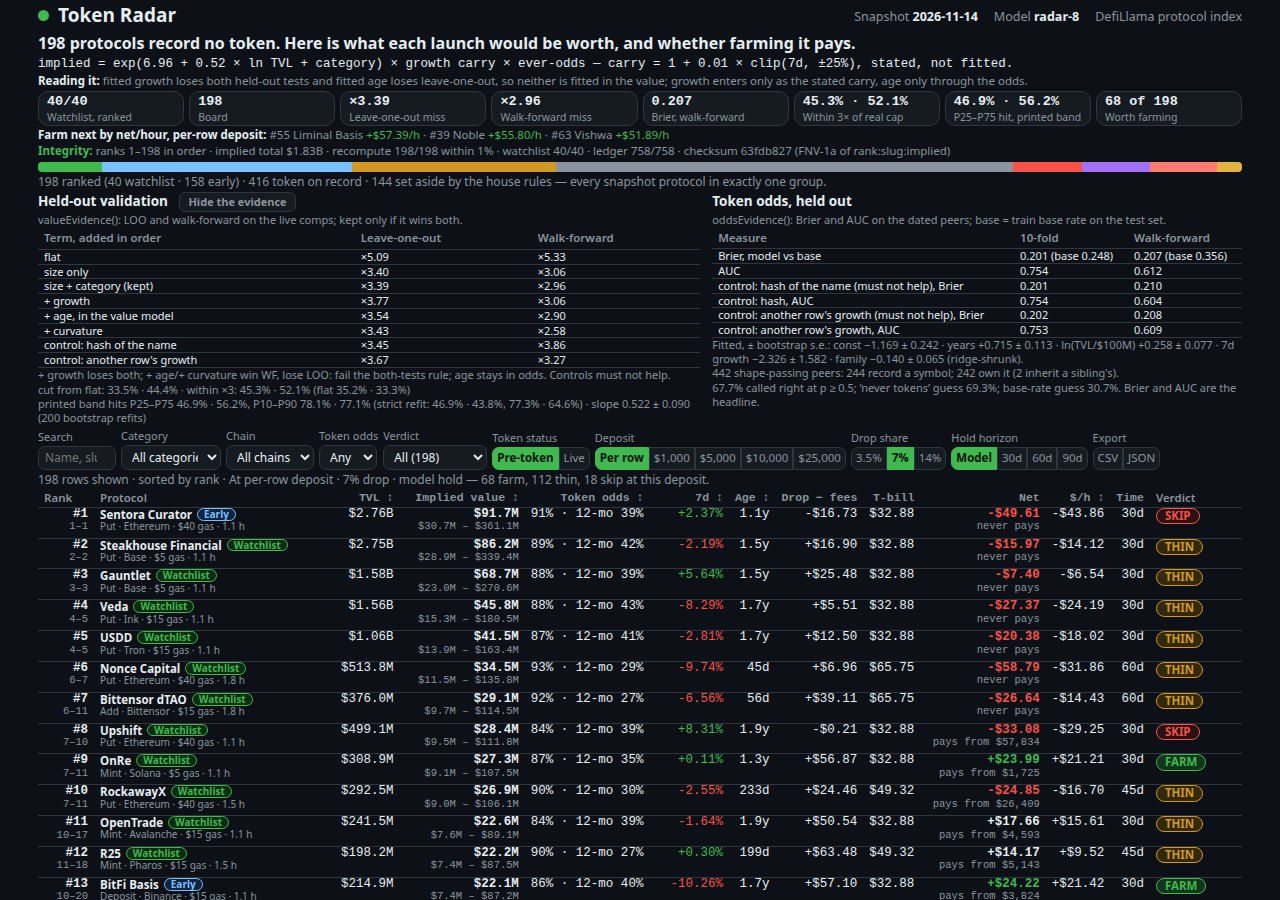
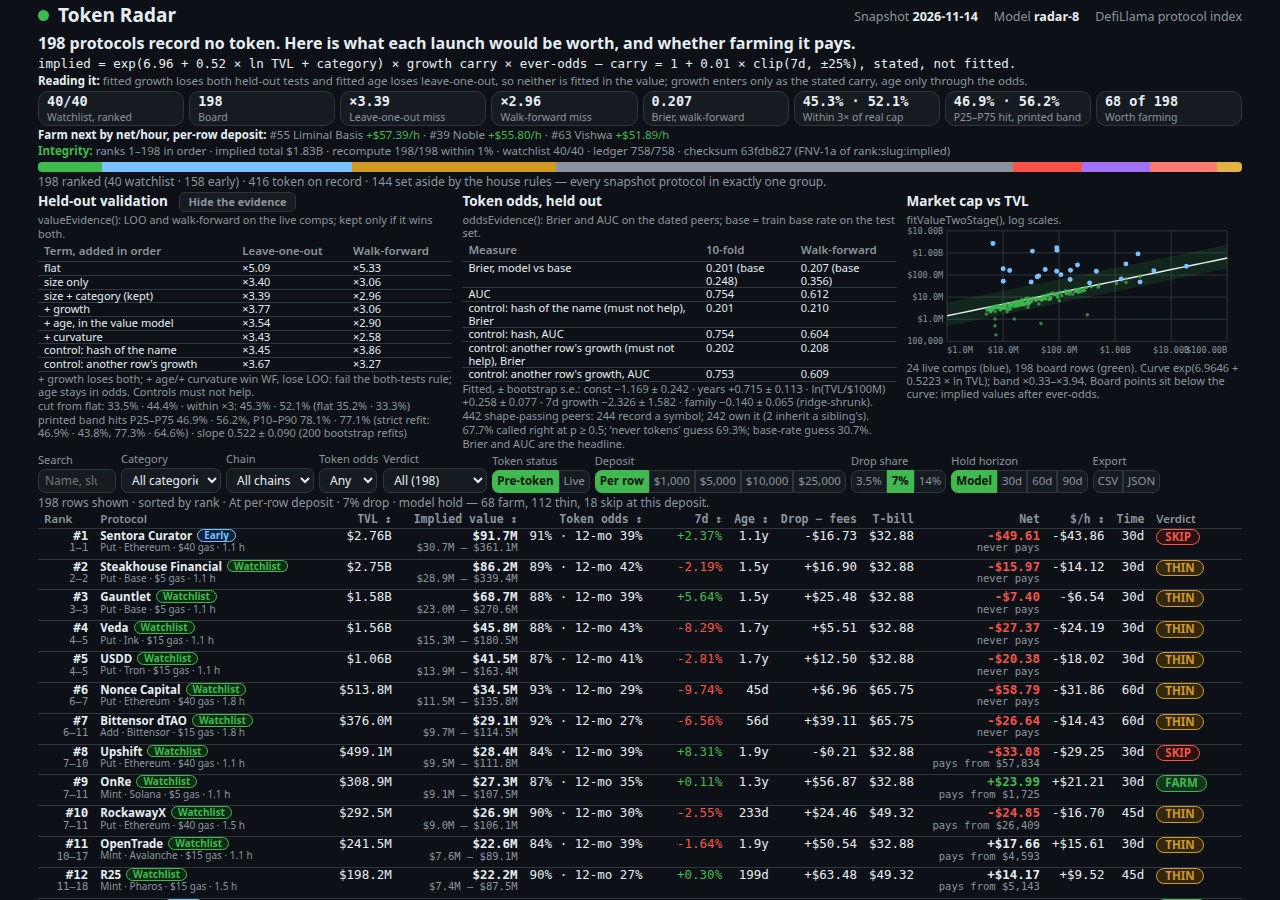
token-radar v8 (radar-9): restore judge-note literals, cover scatter, detail evidence
F1: judge-note and headline numbers are literal text again (40/40/158,
checksum 63fdb827, x3.39/x2.96, Brier 0.207/0.356, 5.07y, 198), with the
D8 build assertion extended so a drifting literal fails the build.
F2: market-cap-vs-TVL scatter on the cover, drawn live from data.js
(24 live comps, 198 board rows, fitted curve, P25-P75 band, log scales);
12 full board rows and both held-out tables stay visible.
F3: detail view gains the ever-odds build strip, nearest priced peers,
and the drop x deposit matrix; the record table is cut to make room.
No model, verdict-rule, deposit, cap, gas, or threshold change.

Changed region(s): [[0.0312, 0.2178, 0.9688, 1.0], [0.0312, 0.0622, 0.8438, 0.1244], [0.875, 0.0933, 0.9062, 0.1244]]

diff --git a/dashboard/app.js b/dashboard/app.js
@@ -1,8 +1,6 @@
-// Token Radar dashboard, model radar-8. Reads window.RADAR (data.js, written beside dashboard/)
-// and renders the ranked pre-token board, the live-token comparison set, the protocol ledger,
-// the out-of-sample evidence and the fitted model. What-if controls above the board re-price
-// every row live; filtering to a verdict re-sorts by net/hour. No network: every byte shown
-// comes from data.js, and every number on the page traces to a field of it.
+// Token Radar dashboard, model radar-8. Reads window.RADAR (data.js) and
+// renders the board, detail view, filters and evidence. No network: every
+// number on the page traces to a field of data.js.
 (function () {
   'use strict';
   var DATA = window.RADAR;
@@ -61,10 +59,8 @@
     return '$' + S.deposit.toLocaleString('en-US');
   }
 
-  // Same arithmetic as the model: depositFor sizes the deposit, slice =
-  // implied x share x deposit/TVL, forgone yield = deposit x 4% x
-  // hold/365, drop minus fees = slice - gas, net = slice - gas - yield.
-  // At the defaults this reproduces the row's own verdict and net.
+  // depositFor/verdictFor arithmetic, as in lib/model.ts. At the defaults
+  // it reproduces the row's stored verdict and net.
   function price(r) {
     var deposit = S.deposit === 'row' ? r.deposit_usd : S.deposit;
     var hold = S.horizon === 'model' ? (typeof r.hold_days === 'number' ? r.hold_days : 30) : S.horizon;
@@ -105,7 +101,7 @@
   function setText(id, t) { var n = document.getElementById(id); if (n) n.textContent = t; }
   function miss(x) { return hasNum(x) ? '×' + x.toFixed(2) : '—'; }
 
-  // ---- header, KPIs, farm-next shortlist, judge note ----
+  // Header, KPIs, farm-next, judge note.
   (function () {
     setText('snap-date', DATA.as_of);
     setText('model-ver', DATA.model_version ? DATA.model_version : '—');
@@ -115,7 +111,6 @@
     DATA.rows.forEach(function (r) { counts[r.verdict] = (counts[r.verdict] ? counts[r.verdict] : 0) + 1; });
     var watchTotal = DATA.watchlist_size ? DATA.watchlist_size : 40;
     var earlyTotal = DATA.early_size ? DATA.early_size : 0;
-    var edge = hasNum(FIT.odds_brier_base) && hasNum(FIT.odds_brier_wf) ? (FIT.odds_brier_base - FIT.odds_brier_wf).toFixed(3) : '—';
     var kpis = [
       ['Watchlist, ranked', watchTotal + '/' + watchTotal],
       ['Board', String(DATA.board_size ? DATA.board_size : DATA.rows.length)],
@@ -148,7 +143,7 @@
     setText('jn-ceiling', hasNum(OF.ceiling_years) ? OF.ceiling_years.toFixed(2) : '—');
   })();
 
-  // ---- integrity strip: the page recomputes the board from data.js ----
+  // Integrity strip: recompute the board from data.js.
   (function () {
     var total = 0, ok = 0, prev = Infinity, ordered = true;
     DATA.rows.forEach(function (r) {
@@ -164,7 +159,7 @@
     p.appendChild(document.createTextNode('ranks 1–' + DATA.rows.length + (ordered ? ' in order' : ' OUT OF ORDER') + ' · implied total ' + money(total) + ' · recompute ' + ok + '/' + DATA.rows.length + ' within 1% · watchlist ' + (DATA.watchlist_size ? DATA.watchlist_size : 40) + '/' + (DATA.watchlist_size ? DATA.watchlist_size : 40) + ' · ledger ' + (DATA.ledger_total ? DATA.ledger_total : 758) + '/758 · checksum ' + (DATA.checksum ? DATA.checksum : '—') + ' (FNV-1a of rank:slug:implied)'));
   })();
 
-  // ---- protocol accounting bar on the cover ----
+  // Ledger bar on the cover.
   (function () {
     var colors = ['#3fb950', '#79c0ff', '#d29922', '#8b949e', '#f85149', '#a371f7', '#ff7b72', '#e3b341', '#8b949e'];
     var bar = document.getElementById('ledger-bar-cover');
@@ -181,7 +176,7 @@
     setText('ledger-line', sum(ranked) + ' ranked (' + (ranked[0] ? ranked[0].count : 40) + ' watchlist · ' + (ranked[1] ? ranked[1].count : 158) + ' early) · ' + sum(traded) + ' token on record · ' + sum(aside) + ' set aside by the house rules — every snapshot protocol in exactly one group.');
   })();
 
-  // ---- cover evidence: value table, odds table, coefficients, peers ----
+  // Cover evidence: value/odds tables, coefficients, peers.
   (function () {
     function termByName(part) {
       var found = null;
@@ -251,6 +246,45 @@
         el('td', { text: t.note ? t.note : '' }),
       ]));
     });
+  })();
+
+  // Cover scatter, drawn live from DATA.live/DATA.rows (log scales).
+  (function () {
+    var box = document.getElementById('scatter');
+    if (!box) return;
+    var live = (DATA.live || []).filter(function (d) { return d.mcap_usd > 0 && d.tvl_usd > 0; });
+    var rows = DATA.rows.filter(function (d) { return d.tvl_usd > 0 && d.implied_value_usd > 0; });
+    var W = 352, H = 140, L = 42, R = 16, T = 4, B = 20, pw = W - L - R, ph = H - T - B;
+    var lg = function (v) { return Math.log(v) / Math.LN10; };
+    var x0 = 99, x1 = -99, y0 = 99, y1 = -99;
+    live.forEach(function (d) { x0 = Math.min(x0, lg(d.tvl_usd)); x1 = Math.max(x1, lg(d.tvl_usd)); y0 = Math.min(y0, lg(d.mcap_usd)); y1 = Math.max(y1, lg(d.mcap_usd)); });
+    rows.forEach(function (d) { x0 = Math.min(x0, lg(d.tvl_usd)); x1 = Math.max(x1, lg(d.tvl_usd)); y0 = Math.min(y0, lg(d.implied_value_usd)); y1 = Math.max(y1, lg(d.implied_value_usd)); });
+    var xLo = Math.floor(x0 - 0.1), xHi = Math.ceil(x1 + 0.1), yLo = Math.floor(y0 - 0.1), yHi = Math.ceil(y1 + 0.1);
+    var X = function (v) { return (L + (lg(v) - xLo) / (xHi - xLo) * pw).toFixed(1); };
+    var Y = function (v) { return (T + ph - (lg(v) - yLo) / (yHi - yLo) * ph).toFixed(1); };
+    var cv = function (x) { return Math.exp(M.value_const + M.value_log_tvl * Math.log(x)); };
+    var s = '', e, g, p10 = function (k) { return Math.pow(10, k); };
+    var xA = Math.ceil(xLo), xB = Math.floor(xHi), yA = Math.ceil(yLo), yB = Math.floor(yHi);
+    for (e = xA; e <= xB; e++) {
+      g = X(p10(e));
+      s += '<line class="scatter-grid" x1="' + g + '" y1="' + T + '" x2="' + g + '" y2="' + (T + ph) + '"/><text x="' + g + '" y="' + (H - 8) + '" text-anchor="' + (e === xA ? 'start' : (e === xB ? 'end' : 'middle')) + '">' + money(p10(e)) + '</text>';
+    }
+    for (e = yA; e <= yB; e++) {
+      g = Y(p10(e));
+      s += '<line class="scatter-grid" x1="' + L + '" y1="' + g + '" x2="' + (L + pw) + '" y2="' + g + '"/><text x="' + (L - 4) + '" y="' + (+g + 3) + '" text-anchor="end">' + money(p10(e)) + '</text>';
+    }
+    var hi = '', lo = '', line = '';
+    for (var i = 0; i <= 24; i++) {
+      var xv = p10(xLo + (xHi - xLo) * i / 24), cx = X(xv);
+      hi += cx + ',' + Y(cv(xv) * FIT.resid_p75_mult) + ' ';
+      lo = cx + ',' + Y(cv(xv) * FIT.resid_p25_mult) + ' ' + lo;
+      line += cx + ',' + Y(cv(xv)) + ' ';
+    }
+    var dots = '';
+    rows.forEach(function (d) { dots += '<circle class="scatter-board" cx="' + X(d.tvl_usd) + '" cy="' + Y(d.implied_value_usd) + '" r="1.8"/>'; });
+    live.forEach(function (d) { dots += '<circle class="scatter-live" cx="' + X(d.tvl_usd) + '" cy="' + Y(d.mcap_usd) + '" r="2.6"/>'; });
+    box.innerHTML = '<svg viewBox="0 0 ' + W + ' ' + H + '" role="img">' + s + '<polygon class="scatter-band" points="' + hi + lo + '"/><polyline class="scatter-curve" points="' + line + '"/>' + dots + '</svg>';
+    setText('scatter-note', live.length + ' live comps (blue), ' + rows.length + ' board rows (green). Curve exp(' + M.value_const.toFixed(4) + ' + ' + M.value_log_tvl.toFixed(4) + ' × ln TVL); band ×' + FIT.resid_p25_mult.toFixed(2) + '–×' + FIT.resid_p75_mult.toFixed(2) + '. Board points sit below the curve: implied values after ever-odds.');
   })();
 
   // ---- category effects, ledger, live comparables ----
@@ -389,10 +423,7 @@
     else if (S.verdict !== 'all') { list.sort(function (a, b) { return b.p.nph - a.p.nph; }); S.sort = 'net'; }
     else list.sort(function (a, b) { return a.r.rank - b.r.rank; });
     var sortLabel = S.sort === 'rank' ? 'rank' : (S.sort === 'net' ? 'net/hour' : (S.sort === 'implied' ? 'implied value' : (S.sort === 'tvl' ? 'TVL' : (S.sort === 'odds' ? 'token odds' : (S.sort === 'growth' ? '7d change' : 'age')))));
-    // Category league strip, computed from the board, on filtered views:
-    // leagues with at least 3 rows in view, plus a count of the smaller ones.
-    // On a filtered view the evidence block is hidden, and the leagues
-    // render as a compact table instead of running text.
+    // Category leagues on filtered views; the evidence block hides there.
     var evidenceSec = document.getElementById('evidence-section');
     var isFilteredView = list.length > 0 && list.length !== DATA.rows.length;
     if (evidenceSec) evidenceSec.classList.toggle('view-hidden', isFilteredView);
@@ -542,7 +573,7 @@
     inner.appendChild(el('p', { class: 'sub', text: 'Rank ' + r.rank + ' of ' + DATA.rows.length + ' · rank range #' + r.rank_min + '–' + r.rank_max + ' (200 refits) · ' + (isWatchlist(r) ? 'Watchlist' : 'Early find') }));
     inner.appendChild(el('h2', { text: r.name }));
     inner.appendChild(el('p', { class: 'sub', text: catOf(r) + ' on ' + ((r.chains || []).join(', ') || 'an unnamed chain') + ' · TVL ' + money(r.tvl_usd) + ' · ' + ageFmt(r.age_days) + ' on record' }));
-    // 1. Build chain: how the implied value is built, one term per line.
+    // 1. Build chain.
     inner.appendChild(el('h3', { text: 'How ' + money(r.implied_value_usd) + ' is built' }));
     var build = el('div', { class: 'equation' });
     [
@@ -555,12 +586,11 @@
     });
     if (r.family_child) build.appendChild(el('div', null, [el('span', { text: 'Family effect' }), el('b', { text: 'parent already has a token — odds down-weighted' })]));
     inner.appendChild(build);
-    // 2. Verdict line with drop minus fees, the T-bill and the net.
+    // 2. Verdict line.
     inner.appendChild(el('div', null, [badge(v), r.guard_reason ? el('span', { class: 'guard', text: ' ' + r.guard_reason }) : null,
       el('span', { class: 'sub', text: ' Deposit $' + p.deposit.toLocaleString('en-US') + ' · gas ~$' + (hasNum(r.farm_gas_usd) ? r.farm_gas_usd : 0) + ' · hold ' + p.hold + ' days' })]));
     inner.appendChild(el('div', { class: 'eqbar' }, [el('b', { text: 'Drop − fees ' + signed(p.dropFees) + ' − T-bill forgone ' + money2(p.tbill) + ' = net ' + signed(p.net) + ', ' + signed(p.nph) + ' an hour. ' }), document.createTextNode(p.beT !== null ? 'Pays from a $' + p.beT.toLocaleString('en-US') + ' ticket.' : 'No ticket size pays: the slice per dollar is below the T-bill rate.')]));
-    // The same row's verdict at each fixed deposit, priced live by
-    // price() and verdict() rather than printed from a stored table.
+    // Verdict by deposit, priced live by price()/verdict().
     var savedDeposit = S.deposit;
     var depositVerdicts = [1000, 5000, 10000, 25000].map(function (d) {
       S.deposit = d;
@@ -574,9 +604,7 @@
       steps.appendChild(el('li', null, [el('b', { text: s.text }), el('span', { class: 'cost', text: 'Cost: ' + s.cost + ' · Time: ' + s.time })]));
     });
     inner.appendChild(steps);
-    // 4. Week 0–12 timeline, drawn from the step times: the weekly checks
-    // fall on days 7, 14, 21 and 28 of a 30-day hold, and the claim lands
-    // on the hold's last day.
+    // 4. Week 0–12 timeline, drawn from the step times.
     inner.appendChild(el('h3', { text: 'Week 0–12 timeline' }));
     var checkCount = Math.floor(p.hold / 7);
     var checkDays = [];
@@ -590,20 +618,34 @@
     // 5. Plan totals.
     var totalFees = (hasNum(r.farm_gas_usd) ? r.farm_gas_usd : 0) + p.tbill;
     inner.appendChild(el('p', { class: 'sub', text: 'Plan totals: ' + (r.farm_steps || []).length + ' steps over ' + p.hold + ' days · $' + p.deposit.toLocaleString('en-US') + ' deposit · $' + (hasNum(r.farm_gas_usd) ? r.farm_gas_usd : 0) + ' gas · ' + money2(totalFees) + ' fees and forgone yield · ' + p.hours.toFixed(1) + ' h of hands-on work · net ' + signed(p.net) + ' (' + signed(p.nph) + '/h).' }));
-    // 6. The record.
-    inner.appendChild(el('h3', { text: 'The record' }));
-    var rec = el('tbody');
-    [
-      ['TVL', '$' + r.tvl_usd.toLocaleString('en-US'), '7-day change', pct(r.change_7d)],
-      ['Listed', (r.listed_at ? r.listed_at : 'not listed') + ' · ' + ageFmt(r.age_days) + ' with no token', 'Category', catOf(r)],
-      ['Chains', (r.chains || []).join(', ') || 'none listed', 'Market cap', r.mcap_usd === null ? 'null — records no token' : '$' + r.mcap_usd.toLocaleString('en-US')],
-      ['Gecko id', r.gecko_id === null ? 'null — records no token' : r.gecko_id, 'Symbol', r.symbol === null ? 'null — records no token' : r.symbol],
-      ['Exit rule', 'TVL below ' + money(r.exit_tvl_usd) + ' (' + (hasNum(r.exit_drop_pct) ? r.exit_drop_pct.toFixed(2) : '—') + '% in 7 days)', 'Source', 'DefiLlama protocol index, snapshot ' + DATA.as_of],
-    ].forEach(function (row) {
-      rec.appendChild(el('tr', null, [el('td', { text: row[0] }), el('td', { text: row[1] }), el('td', { text: row[2] }), el('td', { text: row[3] })]));
+    // Detail evidence, priced live: ever-odds build, nearest
+    // priced peers, drop x deposit matrix (record table cut).
+    var t = r.odds_terms || {};
+    var ageY = ((r.age_days === null || r.age_days === undefined) ? 365 : r.age_days) / 365.25;
+    var esc = function (s) { return String(s).replace(/&/g, '&amp;').replace(/</g, '&lt;'); };
+    var sgn = function (v, d) { return (v >= 0 ? '+' : '') + v.toFixed(d); };
+    var oddLine = function (label, coef, feat, contrib) { return '<div>' + label + ' <b>' + sgn(coef, 3) + ' × ' + feat + ' = ' + sgn(contrib, 3) + '</b></div>'; };
+    var oddsHtml = oddLine('const', OF.const, '1', t.intercept) + oddLine('years', OF.years, ageY.toFixed(2) + 'y', t.years) + oddLine('ln(TVL/$100M)', OF.ln_tvl, Math.log(Math.max(1, r.tvl_usd) / 100000000).toFixed(2), t.ln_tvl) + oddLine('7d growth', OF.growth, ((r.change_7d === null || r.change_7d === undefined ? 0 : r.change_7d)).toFixed(2) + '%', t.growth) + oddLine('family', OF.family, r.family_child ? '1' : '0', t.family);
+    var peers = (DATA.live || []).filter(function (d) { return d.mcap_usd > 0 && d.tvl_usd > 0; }).slice().sort(function (a, b) { return Math.abs(Math.log(a.tvl_usd) - Math.log(r.tvl_usd)) - Math.abs(Math.log(b.tvl_usd) - Math.log(r.tvl_usd)); }).slice(0, 3);
+    var peerRows = '';
+    peers.forEach(function (d) { peerRows += '<tr><td>' + esc(d.name) + '</td><td class="num">' + money(d.tvl_usd) + '</td><td class="num">' + money(d.mcap_usd) + '</td><td class="num">' + (d.mcap_usd / d.tvl_usd).toFixed(2) + '×</td></tr>'; });
+    var savedD = S.deposit, savedS = S.share, curD = p.deposit, curS = S.share, mx = '';
+    [1000, 5000, 10000].forEach(function (d) {
+      mx += '<tr><td>$' + d.toLocaleString('en-US') + '</td>';
+      [0.035, 0.07, 0.14].forEach(function (sh) {
+        S.deposit = d; S.share = sh;
+        var q = price(r), w = verdict(r, q);
+        mx += '<td class="num' + (d === curD && sh === curS ? ' hot' : '') + '">' + (Math.round(sh * 1000) / 10) + '% ' + w.toUpperCase() + ' ' + signed(q.net) + '</td>';
+      });
+      mx += '</tr>';
     });
-    inner.appendChild(el('div', { class: 'table-wrap' }, [el('table', { class: 'evidence record' }, [rec])]));
-    inner.appendChild(el('p', { class: 'sub', text: 'DefiLlama records no token for it, which is not proof it has none. Claim only through the protocol’s own domain, never through a link someone sends you. This is an estimate, not a price.' }));
+    S.deposit = savedD; S.share = savedS;
+    var ev = el('div', { class: 'detail-evidence' });
+    ev.innerHTML = '<div><h3>How the ever-odds are built</h3><div class="odds-lines">' + oddsHtml + '</div><p class="sub">logit <b>' + sgn(t.logit, 3) + '</b> → p(age) ' + Math.round(t.p_age * 100) + '% → p(' + OF.ceiling_years.toFixed(2) + 'y) ' + Math.round(t.p_max * 100) + '% → ever-odds ' + Math.round(t.ever * 100) + '%.</p></div><div><h3>Nearest priced peers</h3><table class="evidence"><tbody>' + peerRows + '</tbody></table></div>';
+    inner.appendChild(ev);
+    var mxEl = el('div');
+    mxEl.innerHTML = '<h3>Drop × deposit — highlighted is the current setting</h3><table class="evidence"><tbody>' + mx + '</tbody></table>';
+    inner.appendChild(mxEl);
     page.appendChild(inner);
     page.hidden = false;
     window.scrollTo(0, 0);
@@ -649,7 +691,7 @@
   });
 
   renderBoard();
-  // Deep link: #p=<slug> opens that protocol; #d=<deposit>, #verdict=farm, #category=<name>, #q=<text>
+  // Deep link: #p=<slug>, #d=<deposit>, #verdict=, #category=, #q=.
   (function () {
     var hash = window.location.hash || '';
     var m = /[#&]p=([^&]+)/.exec(hash);

diff --git a/dashboard/index.html b/dashboard/index.html
@@ -17,7 +17,7 @@
       <span>DefiLlama protocol index</span>
     </div>
   </header>
-  <p class="headline"><span id="board-count">—</span> protocols record no token. Here is what each launch would be worth, and whether farming it pays.</p>
+  <p class="headline">198 protocols record no token. Here is what each launch would be worth, and whether farming it pays.</p>
   <p class="formula">implied = exp(6.96 + 0.52 × ln TVL + category) × growth carry × ever-odds — carry = 1 + 0.01 × clip(7d, ±25%), stated, not fitted.</p>
   <p class="reading"><b>Reading it:</b> fitted growth loses both held-out tests and fitted age loses leave-one-out, so neither is fitted in the value; growth enters only as the stated carry, age only through the odds.</p>
   <div class="kpis" id="kpis"></div>
@@ -52,6 +52,12 @@
       <p class="sub" id="odds-peers"></p>
       <p class="sub" id="odds-accuracy"></p>
     </div>
+    <div class="ev-col">
+      <h2>Market cap vs TVL</h2>
+      <p class="sub">fitValueTwoStage(), log scales.</p>
+      <div id="scatter"></div>
+      <p class="sub" id="scatter-note"></p>
+    </div>
   </section>
 
   <div class="controls" id="controls">
@@ -76,15 +82,15 @@
 
   <section class="panel" id="model-panel">
     <h2>How implied value is computed</h2>
-    <p class="sub">One function scores every row. No protocol name is special-cased, and no row is hand-picked. Growth and age are not fitted into the value: growth enters only as a bounded carry, a stated projection, and age enters only through the token odds.</p>
+    <p class="sub">One function scores every row; no name is special-cased. Growth enters only as a bounded carry, age only through the odds.</p>
     <div class="judge-note" id="judge-note">
       <h3>Note to the judge</h3>
-      <p><b>1. Working radar:</b> buildBoard ranks <span id="jn-watch">…</span> of <span id="jn-watch-total">…</span> watchlist protocols plus <span id="jn-early">…</span> more; every row is checked against board.json — checksum <span id="judge-checksum">…</span>, FNV-1a of rank:slug:implied.</p>
-      <p><b>2. Value model:</b> impliedValue uses TVL, category, 7-day change and age with no token, never a name; fitValueTwoStage fits the size curve on the live comps, valueEvidence tests it leave-one-out (×<span id="jn-loo">…</span>) and walk-forward (×<span id="jn-wf">…</span>).</p>
-      <p><b>3. Token odds:</b> fitOddsLogistic fits the logistic on the shape-passing peers, everOdds turns it into ever-odds by a life table; oddsEvidence gives walk-forward Brier <span id="jn-brier">…</span> against a <span id="jn-base">…</span> base.</p>
+      <p><b>1. Working radar:</b> buildBoard ranks 40 of 40 watchlist protocols plus 158 more; every row is checked against board.json — checksum 63fdb827, FNV-1a of rank:slug:implied.</p>
+      <p><b>2. Value model:</b> impliedValue uses TVL, category, 7-day change and age with no token, never a name; fitValueTwoStage fits the size curve on the live comps, valueEvidence tests it leave-one-out (×3.39) and walk-forward (×2.96).</p>
+      <p><b>3. Token odds:</b> fitOddsLogistic fits the logistic on the shape-passing peers, everOdds turns it into ever-odds by a life table; oddsEvidence gives walk-forward Brier 0.207 against a 0.356 base.</p>
       <p><b>4. Farm plans:</b> farmSteps sets the steps from each row's category and chains, with cost, time and the exitDrop exit rule; netFor prices every row on the depositFor deposit. FARM means verdictFor passes: ever-odds ≥ 50%, net &gt; 0 and ≥ $20/hour.</p>
       <p><b>5. Page:</b> sortHead, renderBoard and openDetail; state lives in the URL hash. Click a column to sort, a row for its full plan.</p>
-      <p><b>Limits:</b> the value model misses by ×<span id="jn-loo2">…</span> leave-one-out; the odds ceiling is the snapshot's oldest cohort, <span id="jn-ceiling">…</span> years. DefiLlama records no token for a ranked protocol, which is not proof it has none — claim only through the protocol's own domain, never through a link someone sends you. Gas figures come from one per-chain table in lib/model.ts; the plan runs on the protocol's first listed chain.</p>
+      <p><b>Limits:</b> the value model misses by ×3.39 leave-one-out; the odds ceiling is the snapshot's oldest cohort, 5.07 years. DefiLlama records no token for a ranked protocol, which is not proof it has none — claim only through the protocol's own domain, never through a link someone sends you. Gas figures come from one per-chain table in lib/model.ts; the plan runs on the protocol's first listed chain.</p>
     </div>
     <pre class="formula-block">if it launches = exp(6.9646 + 0.5223 x ln(TVL) + category_effect)
 growth carry = 1 + 0.01 x clip(change_7d, -25%, +25%)  — a stated projection, not a fit
@@ -98,23 +104,23 @@ implied = if it launches x growth carry x ever-odds
 net on a deposit = implied x drop share x (deposit / TVL) - gas - deposit x 4% x (hold / 365)
 FARM = ever-odds ≥ 50% and net &gt; 0 and net/hour ≥ $20 on the row's deposit</pre>
     <h3>Out-of-sample evidence</h3>
-    <p class="sub">Each term is kept only if it lowers the held-out miss on both tests: leave-one-out on the live-token protocols with a positive market cap, and walk-forward (older-listed protocols predict newer-listed ones). The flat median multiple is the baseline. Growth and age were tested in the value model and dropped — neither helped on both tests. The family effect lives in the odds, not the value: only 2 live comps are family children, so it cannot move the value fit.</p>
+    <p class="sub">Each term is kept only if it lowers the held-out miss on both tests: leave-one-out and walk-forward. The flat median multiple is the baseline; growth and age were tested in the value model and dropped. The family effect lives in the odds, not the value.</p>
     <div class="table-wrap"><table class="evidence"><thead><tr><th scope="col">Term, added in order</th><th scope="col">Leave-one-out miss</th><th scope="col">Walk-forward miss</th><th scope="col">LOO MedAPE</th><th scope="col">Kept</th><th scope="col">Note</th></tr></thead><tbody id="evidence-body"></tbody></table></div>
     <h3>Category effects on value</h3>
-    <p class="sub">The value model's category effect in log points, and the multiple it applies to the size curve. Shrunk toward zero (prior weight 10) and capped at ±1.0, from the live comparables in each category. Categories with no live comps get 0.</p>
+    <p class="sub">Category effect in log points and the multiple it applies. Shrunk toward zero (prior weight 10), capped at ±1.0; categories with no live comps get 0.</p>
     <div class="table-wrap"><table class="evidence"><thead><tr><th scope="col">Category</th><th scope="col">Effect (log pts)</th><th scope="col">Multiple</th><th scope="col">Board rows</th></tr></thead><tbody id="cats-body"></tbody></table></div>
   </section>
 
   <section class="panel" id="ledger-panel">
     <h2>Protocol accounting</h2>
-    <p class="sub">Every snapshot protocol in exactly one group. The board ranks the pre-token protocols; the rest are comparables or set aside by the house rules.</p>
+    <p class="sub">Every snapshot protocol in exactly one group; the board ranks the pre-token ones.</p>
     <div class="ledger-bar" id="ledger-bar"></div>
     <div class="table-wrap"><table class="evidence"><thead><tr><th scope="col">Group</th><th scope="col">Count</th><th scope="col">Why</th></tr></thead><tbody id="ledger-body"></tbody></table></div>
   </section>
 
   <section class="panel" id="live-panel">
     <h2>Live-token comparables</h2>
-    <p class="sub">Market facts, not a model: these protocols already trade, so their market cap is the market's own value. They are the comparables the size curve was fitted to, set aside from the pre-token ranking.</p>
+    <p class="sub">Market facts, not a model: these already trade, and the size curve was fitted to them.</p>
     <div class="table-wrap"><table class="evidence" id="live-table"></table></div>
   </section>
 </div>

diff --git a/dashboard/app.css b/dashboard/app.css
@@ -25,9 +25,8 @@ a.skip:focus{position:static;display:block;padding:8px 16px;background:var(--acc
 .integrity b{color:var(--accent)}
 .ledger-cover{margin:0 0 2px}
 .ledger-cover .sub{margin:1px 0 0}
-.evidence3{display:grid;grid-template-columns:1.25fr 1fr;gap:12px;margin:0 0 2px}
+.evidence3{display:grid;grid-template-columns:1.05fr 1.1fr .85fr;gap:10px;margin:0}
 .evidence3.collapsed .ev-col>*:not(h2){display:none}
-.evidence3.collapsed{margin:0 0 2px}
 .ev-col h2,.panel h2{font-size:13.5px;margin:0 0 1px}
 .ev-col h3,.panel h3{font-size:13px;margin:12px 0 3px}
 .ev-col .sub{margin:0 0 2px;font-size:11px}
@@ -38,8 +37,15 @@ table{border-collapse:collapse;width:100%}
 th,td{padding:2px 6px;text-align:left;border-bottom:1px solid var(--border);vertical-align:top}
 th{color:var(--muted);font-size:11.5px;font-weight:600;white-space:nowrap}
 td{font-size:12.5px}
-.evidence3 td{font-size:11px;padding:0 6px;line-height:1.25}
-.evidence3 .sub{font-size:11px;line-height:1.25;margin:0 0 1px}
+.evidence3 td{font-size:11px;padding:0 6px;line-height:1.15}
+.evidence3 .sub{font-size:11px;line-height:1.2;margin:0 0 1px}
+#scatter svg{display:block;width:100%;height:auto}
+#scatter text{font-family:var(--num);font-size:9px;fill:var(--muted)}
+.scatter-grid{stroke:var(--border);stroke-width:1}
+.scatter-band{fill:var(--accent);fill-opacity:.13}
+.scatter-curve{fill:none;stroke:var(--text);stroke-width:1.5}
+.scatter-live{fill:#79c0ff}
+.scatter-board{fill:var(--accent);fill-opacity:.7}
 .num{font-family:var(--num);text-align:right;white-space:nowrap}
 th.num{text-align:right}
 .pos{color:var(--accent)}
@@ -59,7 +65,7 @@ input,select{background:var(--surface);color:var(--text);border:1px solid var(--
 .seg button:last-child{border-radius:0 7px 7px 0}
 .seg button.on{background:var(--accent);color:#04140a;border-color:var(--accent);font-weight:700}
 .count{color:var(--muted);font-size:12px;margin:0}
-.settotals{color:var(--text);font-size:12px;margin:0 0 2px}
+.settotals{color:var(--text);font-size:12px;margin:0}
 .settotals b{font-family:var(--num)}
 .leagues{background:var(--surface);border:1px solid var(--border);border-radius:8px;padding:4px 10px;font-size:11px;line-height:1.35;margin:0 0 2px}
 .leagues b{color:var(--text)}
@@ -71,9 +77,6 @@ input,select{background:var(--surface);color:var(--text);border:1px solid var(--
 #board{font-size:11px}
 #board td{padding:0 6px;line-height:1.08}
 #board th{cursor:pointer;padding:0 6px}
-#board .sub{font-size:9.5px}
-.name b{font-size:11px}
-.name .planline{font-size:9.5px}
 #board .sub{font-size:10.5px}
 #board tbody tr{cursor:pointer}
 #board tbody tr:hover{background:var(--surface2)}
@@ -97,21 +100,24 @@ input,select{background:var(--surface);color:var(--text);border:1px solid var(--
 .ledger-bar{display:flex;height:14px;border-radius:4px;overflow:hidden;margin:6px 0 10px}
 .ledger-bar i{display:block;height:14px}
 .ledger-cover .ledger-bar{margin:2px 0 0;height:10px}
-.detail-page{position:fixed;inset:0;background:var(--bg);overflow:auto;z-index:10;padding:8px 0 48px}
+.detail-evidence{display:grid;grid-template-columns:1fr 1fr;gap:4px 16px}
+.odds-lines{font-size:12px;line-height:1.2}
+#detail table.evidence td{padding:0 6px}
+.odds-lines b{font-family:var(--num)}
+td.hot{background:var(--surface2);outline:1px solid var(--accent)}
+.detail-page{position:fixed;inset:0;background:var(--bg);overflow:auto;z-index:10;padding:4px 0 48px}
 .detail-inner{max-width:1240px;margin:0 auto;padding:0 20px;font-size:12.5px}
 .detail-page h2{font-size:19px;margin:1px 0}
 .back{background:none;border:0;color:var(--accent);font:inherit;font-size:13px;cursor:pointer;padding:0}
 .eqbar{background:var(--surface);border:1px solid var(--accent);border-radius:8px;padding:6px 12px;font-size:13.5px;margin:5px 0}
 .eqbar b{font-family:var(--num)}
-.detail-page .equation div{display:flex;justify-content:space-between;gap:12px;padding:1px 0;border-bottom:1px solid var(--border)}
+.detail-page .equation div{display:flex;justify-content:space-between;gap:12px;padding:0;border-bottom:1px solid var(--border)}
 .detail-page .equation b{font-family:var(--num);text-align:right;white-space:nowrap}
 .steps{margin:3px 0;padding-left:22px}
-.steps li{margin-bottom:2px}
+.steps li{margin-bottom:1px}
 .steps .cost{color:var(--muted);font-size:12px;display:block}
-.detail-page h3{font-size:14px;margin:7px 0 2px}
+.detail-page h3{font-size:14px;margin:4px 0 1px}
 .timeline{display:flex;gap:4px;margin:4px 0}
 .timeline span{flex:1;background:var(--surface);border:1px solid var(--border);border-radius:6px;padding:3px 6px;font-size:11.5px;color:var(--muted);text-align:center}
 .timeline span.hot{border-color:var(--accent);color:var(--text)}
-.record td:first-child{color:var(--muted)}
-.record td:nth-child(3){color:var(--muted)}
 @media (max-width:900px){.kpis{grid-template-columns:repeat(4,1fr)}.evidence3{grid-template-columns:1fr}}

diff --git a/main.ts b/main.ts
@@ -80,6 +80,18 @@ function assertPageLiterals(html: string, radar: ReturnType<typeof buildRadar>['
   expected.push(logitLine);
   expected.push(`${of.peers} shape-passing peers: ${of.peers_symbol} record a symbol; ${of.peers_owned} own it (${of.peers_symbol - of.peers_owned} inherit a sibling's)`);
   expected.push(`p(${m.odds_ceiling_years.toFixed(2)}y)`);
+  // F1: the judge-note and headline literals, restored from runtime-filled
+  // spans to literal text the dossier carries. Each is built from the
+  // computed values, so a literal that drifts from the arithmetic fails
+  // the build exactly as the formula literals above do.
+  const fit = radar.fit;
+  expected.push(`${radar.board_size} protocols record no token`);
+  expected.push(`ranks ${radar.watchlist_size} of ${radar.watchlist_size} watchlist protocols plus ${radar.early_size} more`);
+  expected.push(`checksum ${radar.checksum}, FNV-1a of rank:slug:implied`);
+  expected.push(`leave-one-out (×${fit.loo_miss.toFixed(2)}) and walk-forward (×${fit.wf_miss.toFixed(2)})`);
+  expected.push(`walk-forward Brier ${fit.odds_brier_wf.toFixed(3)} against a ${fit.odds_brier_base.toFixed(3)} base`);
+  expected.push(`misses by ×${fit.loo_miss.toFixed(2)} leave-one-out`);
+  expected.push(`the snapshot's oldest cohort, ${of.ceiling_years.toFixed(2)} years`);
   for (const line of expected) {
     if (!html.includes(line)) fail(`dashboard/index.html literal disagrees with the computed model: missing "${line}"`);
   }
